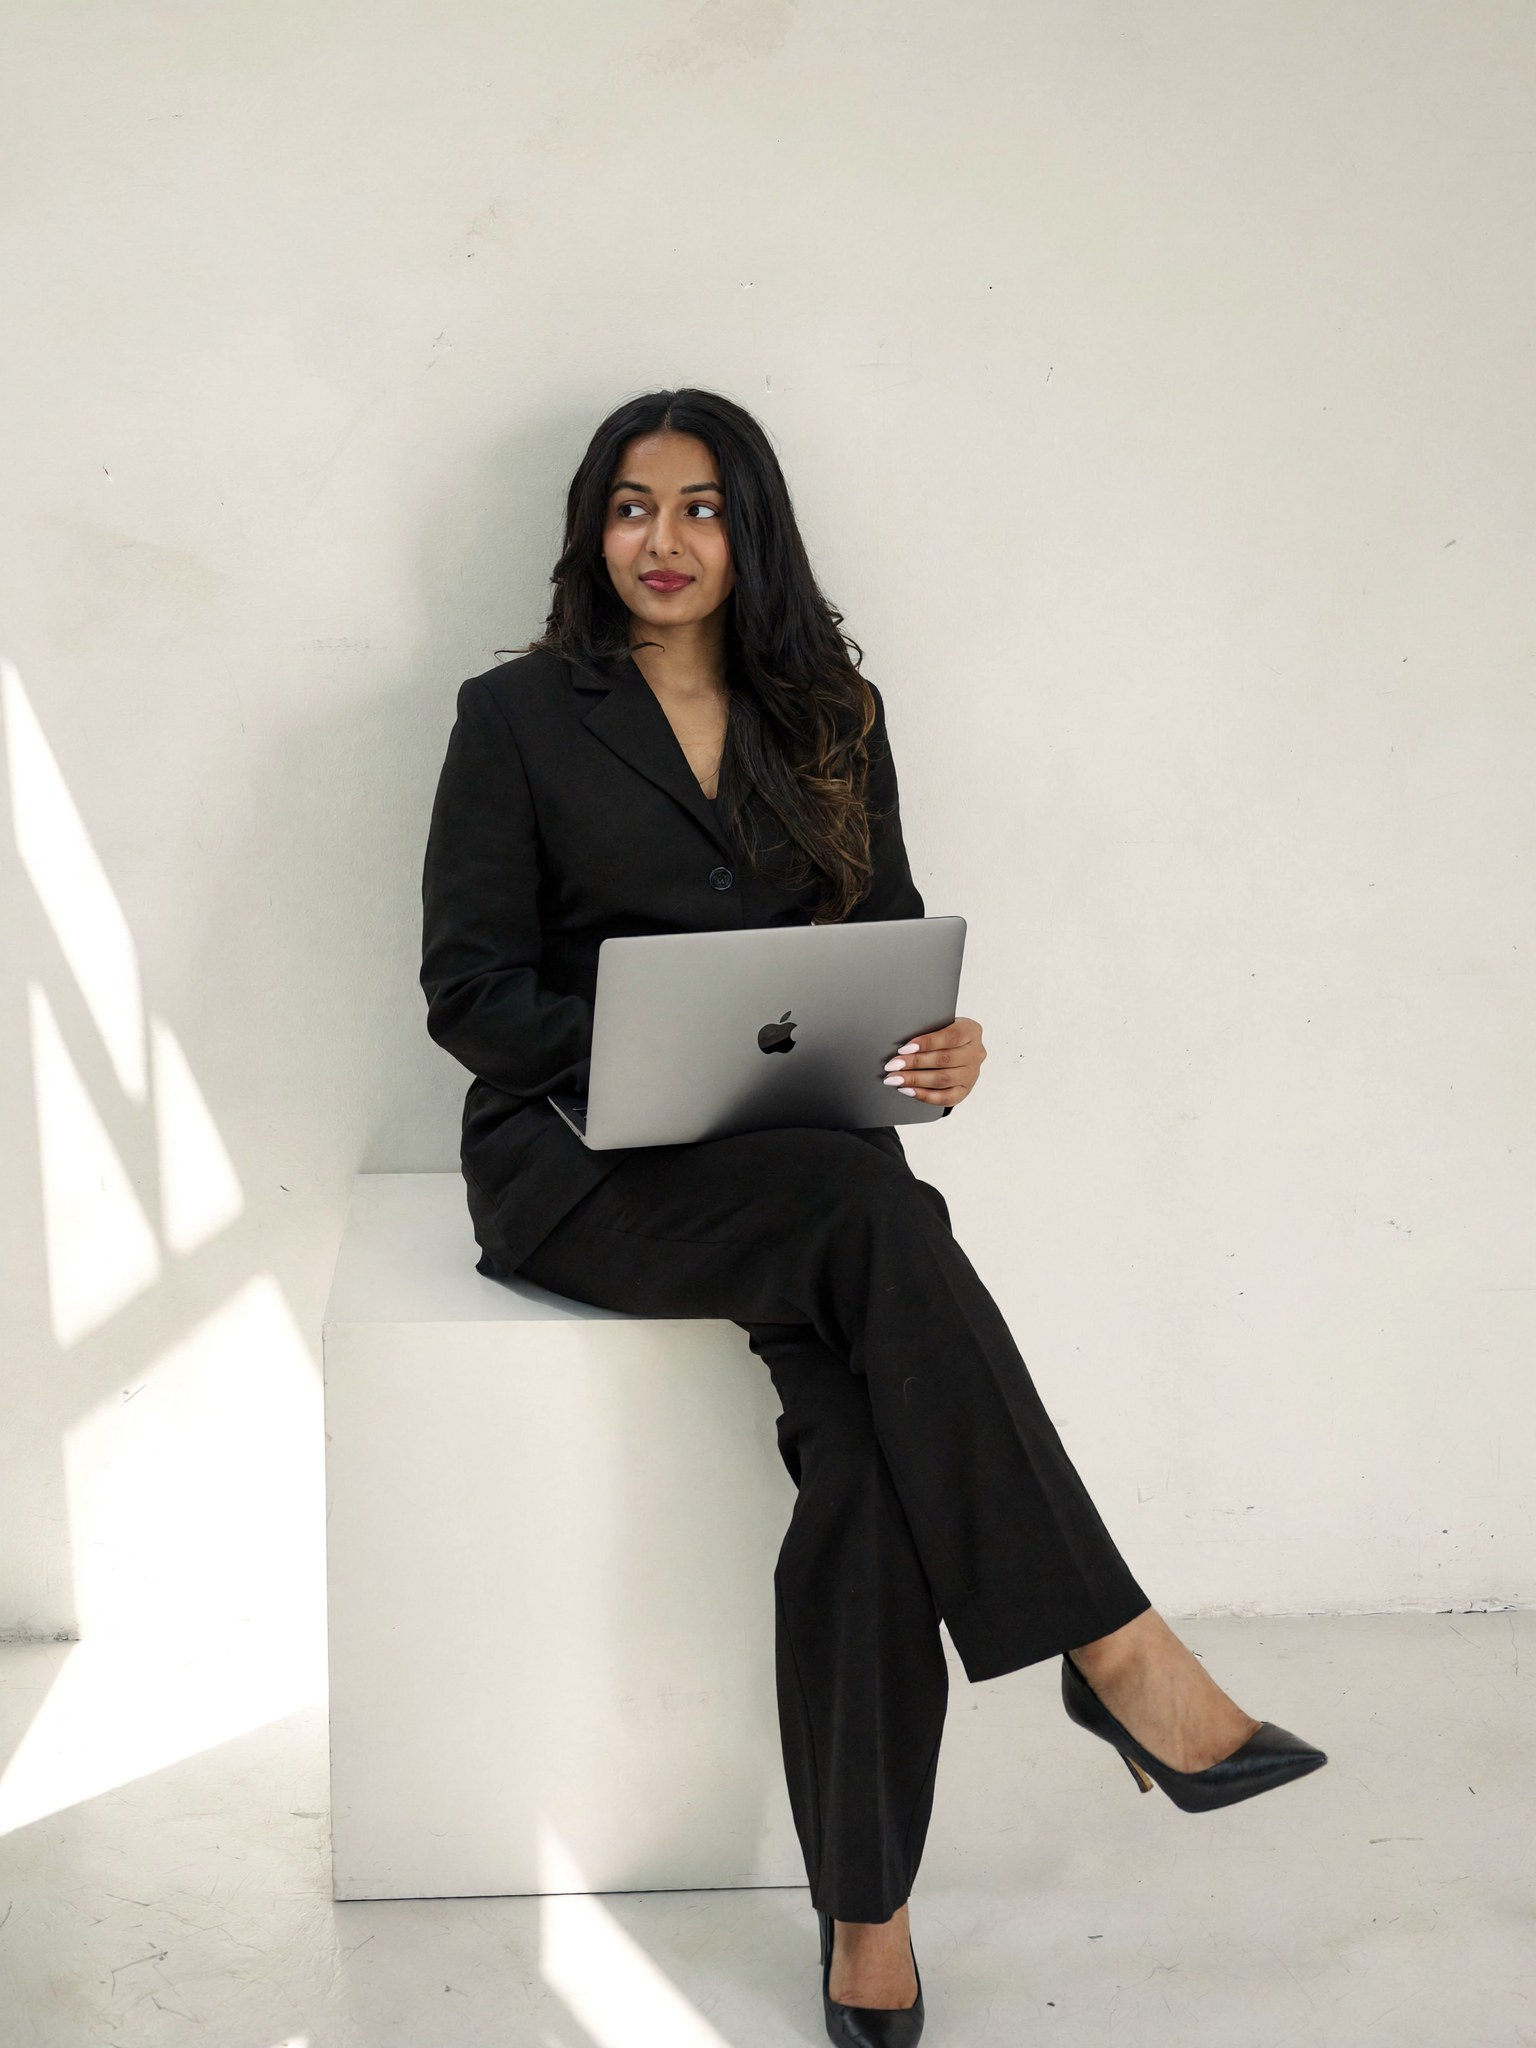
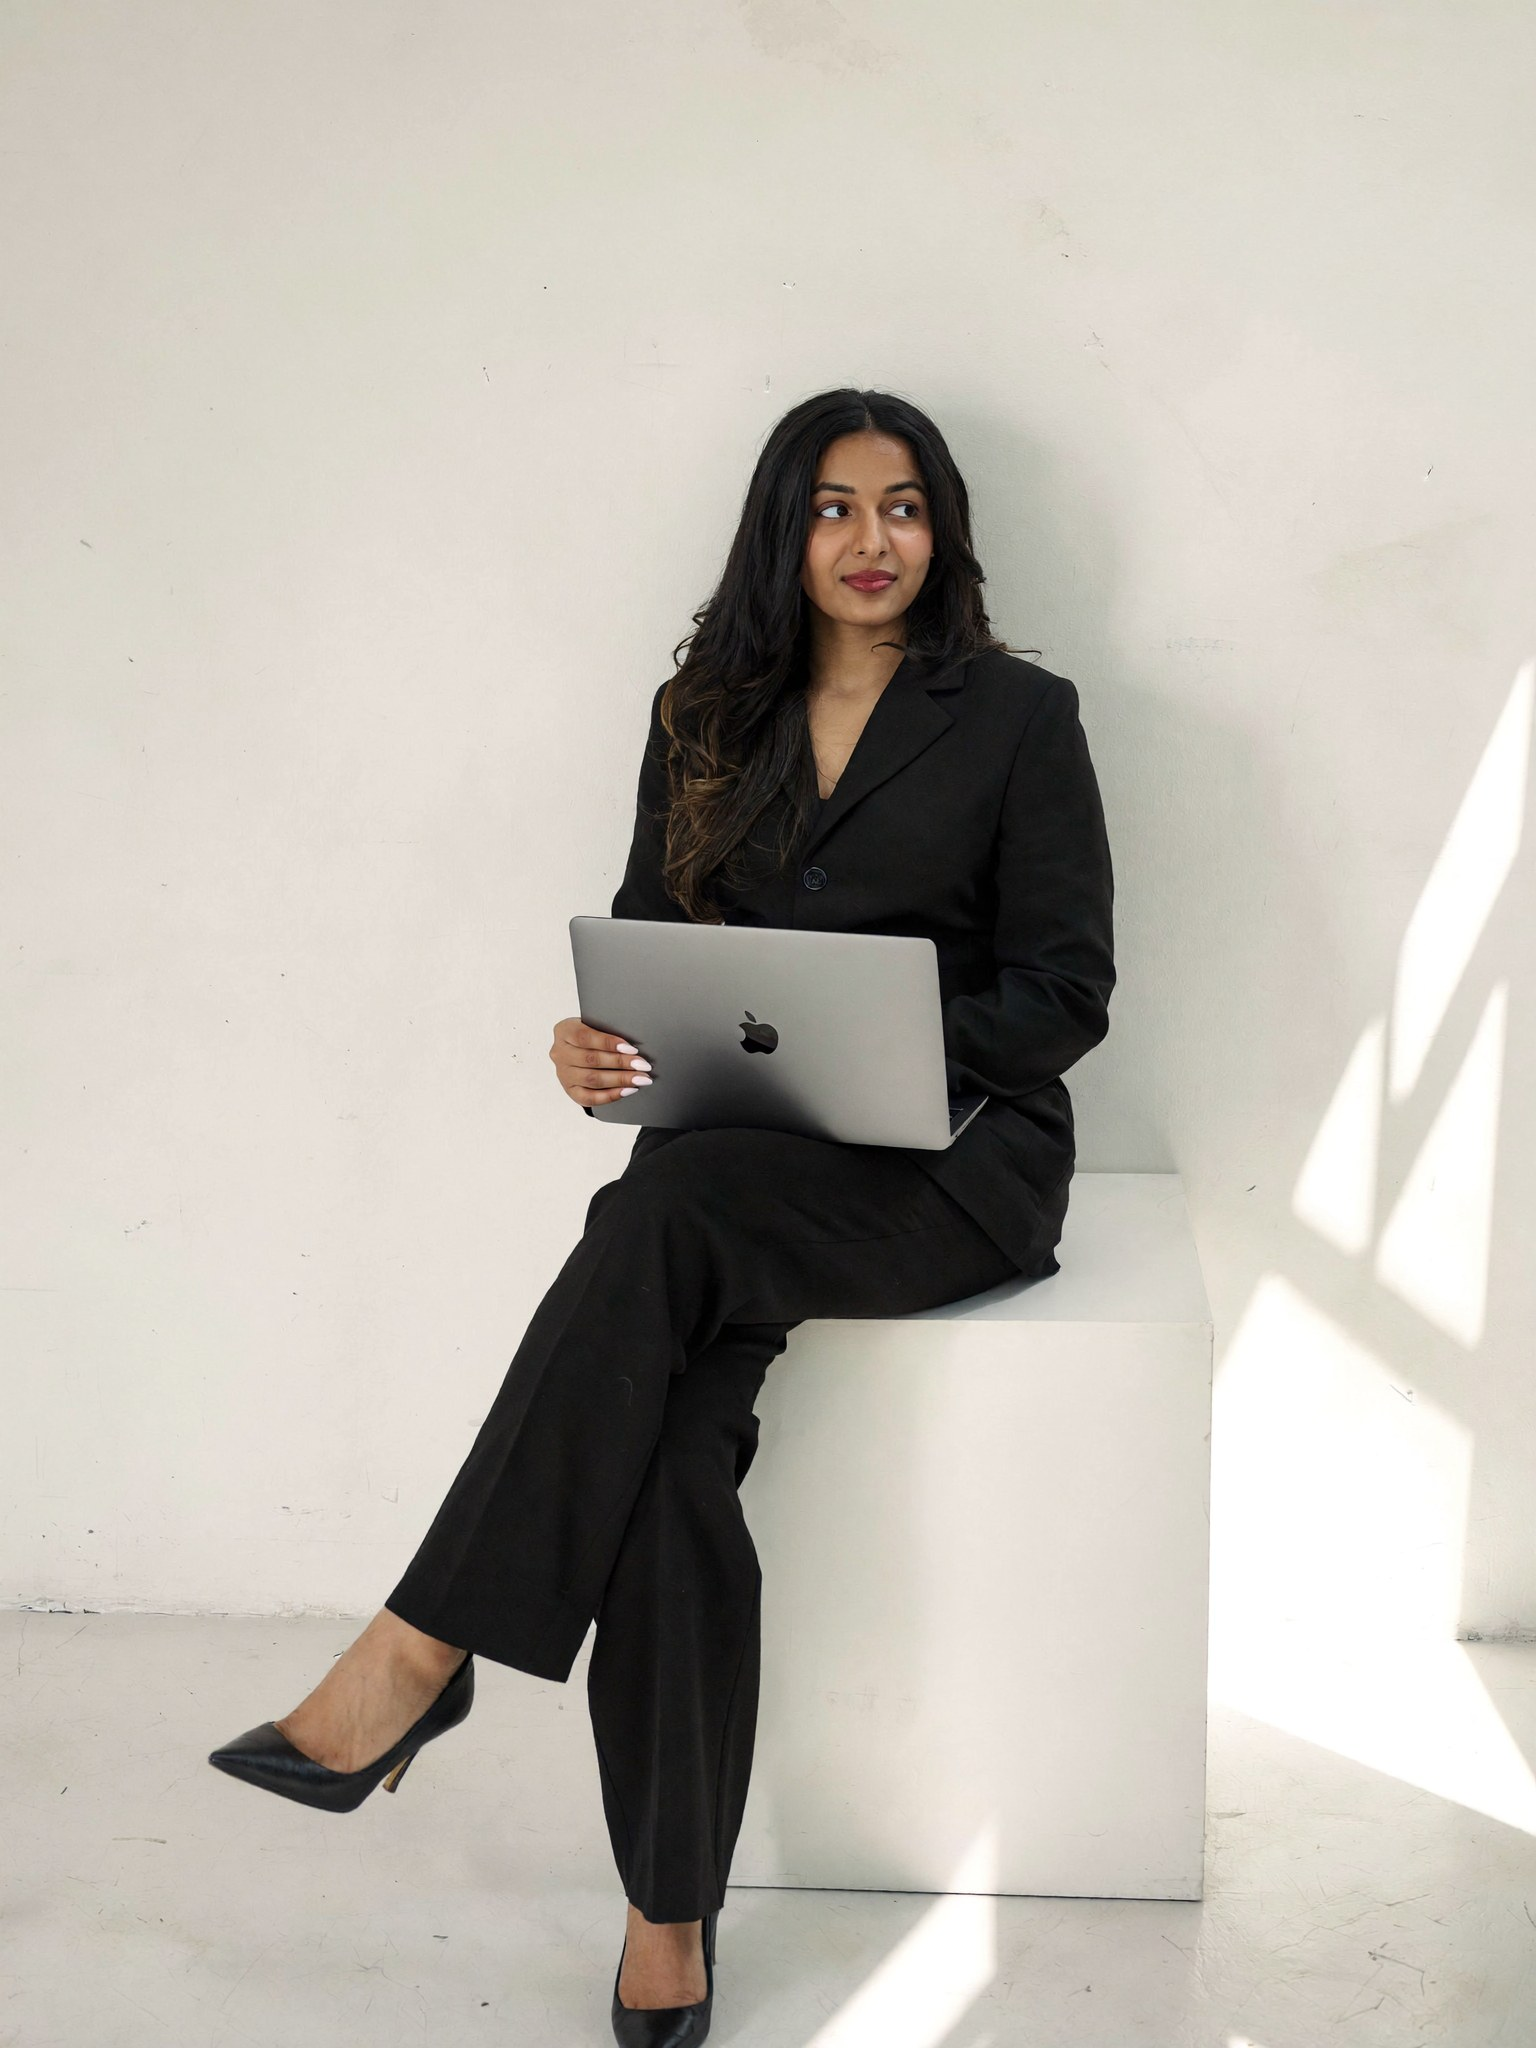
De-dash copy, 11M impressions, flipped photo

diff --git a/src/sections/WhoAmI.tsx b/src/sections/WhoAmI.tsx
@@ -4,7 +4,7 @@ import portrait from '@/assets/vanshika_laptop.jpg';
 const stats = [
   { value: '21K+', label: 'posts' },
   { value: '6.9K', label: 'followers' },
-  { value: '1M+', label: 'impressions' },
+  { value: '11M+', label: 'impressions' },
 ];
 
 export default function WhoAmI() {
@@ -23,7 +23,7 @@ export default function WhoAmI() {
             content that hits, write banger tweets that make people stop scrolling, market projects
             to a wider CT audience, and bring in thousands of leads (just like I did for Polymarket).
             I help projects with content strategy, growth marketing, community building, and business
-            development — the kind of stuff that actually moves the needle instead of just looking
+            development. The kind of stuff that actually moves the needle instead of just looking
             pretty on a pitch deck.
           </p>
           <p className="mt-4 max-w-lg text-sm leading-relaxed text-neutral-300 sm:text-base">
